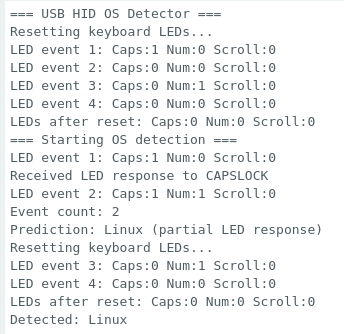
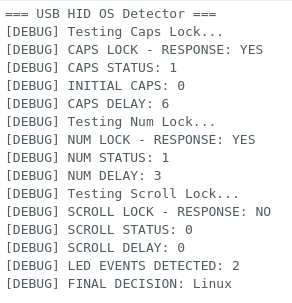
Improved detection

Changed region(s): [[0.0, 0.0297, 0.9555, 0.9802], [0.7397, 0.3267, 0.9247, 0.3861], [0.8322, 0.1485, 0.9247, 0.1782]]

diff --git a/README.md b/README.md
@@ -6,18 +6,13 @@ Simple USB OS detector for ESP32-S2 and ESP32-S3.
 
 Requirements:
 
-* Arduino IDE 2.3.3 or later
+* Arduino IDE 2.3.6 or later
 * esp32 by Espressif system (tested with v3.2.0)
 
-Tested systems:
-
-* Ubuntu 22.04 (Linux detected)
-* Windows 11 (Windows detected)
-* Samsung Galaxy S24 Ultra (Android detected)
-* iPhone 15 Pro Max (iOS detected)
-
-**NOTE:** macOS has not been tested.
+This is a **BETA feature**. Currently it can detect the following operating systems: Windows, Linux, MacOS, Android, iOS and ChromeOS (ChromeOS Flex). Please open an issue if you experience any issues with OS detection.
 
 Feel free to submit a pull request if you manage to detect additional systems.
+
+![Windows](https://github.com/joelsernamoreno/ESP32Sx-DetectOS/blob/main/images/windows.jpg)
 
 ![Linux](https://github.com/joelsernamoreno/ESP32Sx-DetectOS/blob/main/images/linux.png)
